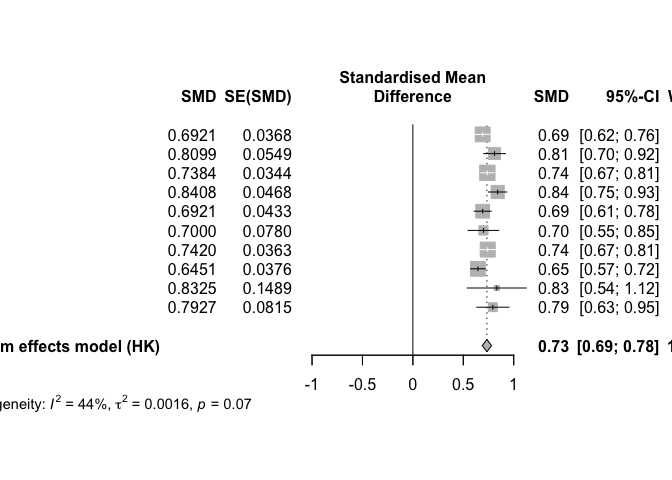
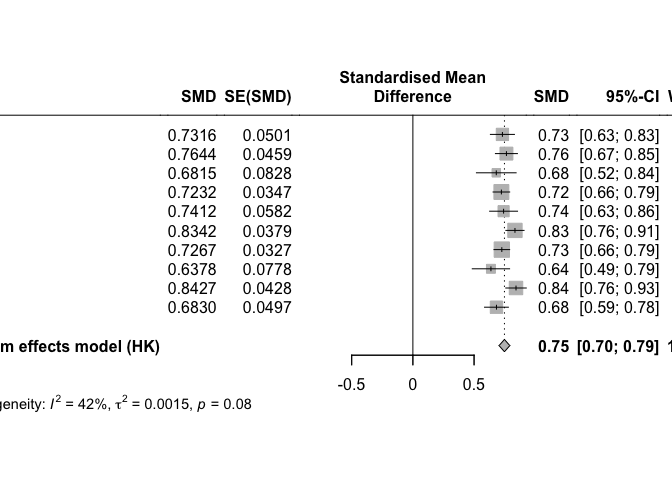
updating readme

diff --git a/README.md b/README.md
@@ -36,8 +36,8 @@ between study heterogenity ($\tau$).
 ``` r
 sim <- sim_meta(min_obs = 20,
          max_obs = 2000,
-         n_studies = 1500,
-         es_true = 0.7,
+         n_studies = 20,
+         es_true = 0.3,
          es = 'SMD',
          fixed = TRUE,
          random = FALSE,
@@ -45,14 +45,14 @@ sim <- sim_meta(min_obs = 20,
 
 head(sim$data_aggr)
 #> # A tibble: 6 × 10
-#>   study hedges_g     se mean_x   mean_y  sd_x  sd_y   n_x   n_y      vi
-#>   <int>    <dbl>  <dbl>  <dbl>    <dbl> <dbl> <dbl> <int> <int>   <dbl>
-#> 1     1    0.817 0.0466  0.758 -0.0605  0.970 1.03   1000  1000 0.00217
-#> 2     2    0.671 0.0641  0.728  0.0571  1.01  0.991   514   514 0.00411
-#> 3     3    0.723 0.0332  0.704 -0.00956 0.984 0.988  1936  1936 0.00110
-#> 4     4    0.680 0.0356  0.655 -0.0177  0.990 0.987  1674  1674 0.00126
-#> 5     5    0.640 0.0354  0.697  0.0644  0.997 0.978  1682  1682 0.00125
-#> 6     6    0.723 0.112   0.772  0.0265  1.05  1.01    171   171 0.0125
+#>   study hedges_g     se mean_x  mean_y  sd_x  sd_y   n_x   n_y      vi
+#>   <int>    <dbl>  <dbl>  <dbl>   <dbl> <dbl> <dbl> <int> <int>   <dbl>
+#> 1     1   0.290  0.0367  0.315  0.0235 1.01  0.998  1497  1497 0.00135
+#> 2     2   0.303  0.0419  0.274 -0.0308 0.999 1.01   1153  1153 0.00175
+#> 3     3   0.316  0.0356  0.282 -0.0336 0.974 1.02   1599  1599 0.00127
+#> 4     4   0.257  0.0326  0.310  0.0531 1.00  0.991  1892  1892 0.00107
+#> 5     5   0.379  0.0765  0.337 -0.0251 0.942 0.968   348   348 0.00585
+#> 6     6   0.0360 0.142   0.210  0.173  0.965 1.06     99    99 0.0202
 ```
 
 # Effect size and standard error
@@ -104,30 +104,30 @@ metaanalysis <- metagen(TE = hedges_g,
 summary(metaanalysis)
 #> Review:     Meta-Analysis fixed-effect
 #> 
-#>       SMD           95%-CI %W(common)
-#> 1  0.8174 [0.7262; 0.9086]        9.8
-#> 2  0.6706 [0.5450; 0.7963]        5.2
-#> 3  0.7232 [0.6582; 0.7882]       19.3
-#> 4  0.6802 [0.6105; 0.7498]       16.8
-#> 5  0.6404 [0.5711; 0.7097]       17.0
-#> 6  0.7227 [0.5040; 0.9415]        1.7
-#> 7  0.7278 [0.6298; 0.8258]        8.5
-#> 8  0.8572 [0.5502; 1.1642]        0.9
-#> 9  0.6227 [0.5411; 0.7042]       12.3
-#> 10 0.7110 [0.6142; 0.8078]        8.7
+#>       SMD            95%-CI %W(common)
+#> 1  0.2898 [ 0.2178; 0.3619]       16.7
+#> 2  0.3034 [ 0.2213; 0.3855]       12.8
+#> 3  0.3162 [ 0.2465; 0.3860]       17.8
+#> 4  0.2572 [ 0.1932; 0.3212]       21.1
+#> 5  0.3790 [ 0.2291; 0.5289]        3.8
+#> 6  0.0360 [-0.2426; 0.3146]        1.1
+#> 7  0.3045 [ 0.2036; 0.4055]        8.5
+#> 8  0.3499 [ 0.2241; 0.4756]        5.5
+#> 9  0.3135 [ 0.1990; 0.4281]        6.6
+#> 10 0.2773 [ 0.1581; 0.3964]        6.1
 #> 
 #> Number of studies: k = 10
 #> 
-#>                        SMD           95%-CI     z p-value
-#> Common effect model 0.6966 [0.6681; 0.7252] 47.82       0
+#>                        SMD           95%-CI     z  p-value
+#> Common effect model 0.2953 [0.2659; 0.3247] 19.68 < 0.0001
 #> 
 #> Quantifying heterogeneity:
-#>  tau^2 = 0.0017 [0.0000; 0.0109]; tau = 0.0413 [0.0000; 0.1046]
-#>  I^2 = 40.1% [0.0%; 71.4%]; H = 1.29 [1.00; 1.87]
+#>  tau^2 < 0.0001 [0.0000; 0.0135]; tau = 0.0004 [0.0000; 0.1163]
+#>  I^2 = 0.0% [0.0%; 62.4%]; H = 1.00 [1.00; 1.63]
 #> 
 #> Test of heterogeneity:
-#>      Q d.f. p-value
-#>  15.01    9  0.0905
+#>     Q d.f. p-value
+#>  7.23    9  0.6129
 #> 
 #> Details on meta-analytical method:
 #> - Inverse variance method
@@ -157,20 +157,32 @@ sim <- sim_meta(min_obs = 20,
 
 head(sim$data_aggr)
 #> # A tibble: 6 × 10
-#>   study hedges_g     se mean_x  mean_y  sd_x  sd_y   n_x   n_y      vi
-#>   <int>    <dbl>  <dbl>  <dbl>   <dbl> <dbl> <dbl> <int> <int>   <dbl>
-#> 1     1    0.692 0.0368  0.766  0.0731 1.02  0.984  1562  1562 0.00136
-#> 2     2    0.810 0.0549  0.713 -0.0802 0.993 0.964   717   717 0.00302
-#> 3     3    0.738 0.0344  0.668 -0.0818 1.03  1.00   1807  1807 0.00118
-#> 4     4    0.841 0.0468  0.775 -0.0366 0.946 0.984   992   992 0.00219
-#> 5     5    0.692 0.0433  0.648 -0.0452 0.973 1.03   1133  1133 0.00187
-#> 6     6    0.700 0.0780  0.750  0.0648 1.00  0.955   349   349 0.00608
+#>   study hedges_g     se mean_x   mean_y  sd_x  sd_y   n_x   n_y      vi
+#>   <int>    <dbl>  <dbl>  <dbl>    <dbl> <dbl> <dbl> <int> <int>   <dbl>
+#> 1     1    0.691 0.0374  0.703  0.00805 1.02  0.993  1518  1518 0.00140
+#> 2     2    0.749 0.0984  0.660 -0.0557  0.942 0.967   221   221 0.00968
+#> 3     3    0.790 0.0523  0.710 -0.0910  1.01  1.01    788   788 0.00274
+#> 4     4    0.534 0.0325  0.667  0.137   0.978 1.01   1963  1963 0.00106
+#> 5     5    0.679 0.0404  0.658 -0.0215  1.02  0.976  1299  1299 0.00163
+#> 6     6    0.733 0.0355  0.683 -0.0369  0.972 0.994  1697  1697 0.00126
 ```
 
 Run Random-Effects Meta-Analysis
 
 ``` r
 require(meta)
+require(metafor)
+#> Loading required package: metafor
+#> Loading required package: Matrix
+#> 
+#> Attaching package: 'Matrix'
+#> The following objects are masked from 'package:tidyr':
+#> 
+#>     expand, pack, unpack
+#> Loading required package: numDeriv
+#> 
+#> Loading the 'metafor' package (version 4.4-0). For an
+#> introduction to the package please type: help(metafor)
 
 metaanalysis <- metagen(TE = hedges_g,
                  seTE = se,
@@ -187,29 +199,29 @@ summary(metaanalysis)
 #> Review:     Meta-Analysis fixed-effect
 #> 
 #>       SMD           95%-CI %W(random)
-#> 1  0.6921 [0.6199; 0.7643]       13.9
-#> 2  0.8099 [0.7023; 0.9176]        8.9
-#> 3  0.7384 [0.6710; 0.8058]       14.8
-#> 4  0.8408 [0.7490; 0.9326]       10.8
-#> 5  0.6921 [0.6073; 0.7769]       11.8
-#> 6  0.7000 [0.5471; 0.8528]        5.3
-#> 7  0.7420 [0.6708; 0.8132]       14.1
-#> 8  0.6451 [0.5714; 0.7188]       13.7
-#> 9  0.8325 [0.5407; 1.1244]        1.7
-#> 10 0.7927 [0.6330; 0.9524]        5.0
+#> 1  0.6907 [0.6175; 0.7640]       11.6
+#> 2  0.7490 [0.5561; 0.9419]        5.8
+#> 3  0.7898 [0.6873; 0.8923]       10.0
+#> 4  0.5339 [0.4703; 0.5976]       12.1
+#> 5  0.6789 [0.5998; 0.7580]       11.3
+#> 6  0.7327 [0.6631; 0.8022]       11.8
+#> 7  0.8663 [0.7527; 0.9800]        9.4
+#> 8  0.6534 [0.5620; 0.7448]       10.6
+#> 9  0.8236 [0.7325; 0.9147]       10.7
+#> 10 0.7161 [0.5427; 0.8894]        6.6
 #> 
 #> Number of studies: k = 10
 #> 
 #>                              SMD           95%-CI     t  p-value
-#> Random effects model (HK) 0.7339 [0.6881; 0.7797] 36.25 < 0.0001
+#> Random effects model (HK) 0.7170 [0.6468; 0.7872] 23.10 < 0.0001
 #> 
 #> Quantifying heterogeneity:
-#>  tau^2 = 0.0016 [0.0000; 0.0111]; tau = 0.0396 [0.0000; 0.1053]
-#>  I^2 = 43.8% [0.0%; 73.1%]; H = 1.33 [1.00; 1.93]
+#>  tau^2 = 0.0069 [0.0023; 0.0274]; tau = 0.0830 [0.0482; 0.1656]
+#>  I^2 = 80.7% [65.5%; 89.2%]; H = 2.28 [1.70; 3.05]
 #> 
 #> Test of heterogeneity:
-#>      Q d.f. p-value
-#>  16.02    9  0.0665
+#>      Q d.f.  p-value
+#>  46.71    9 < 0.0001
 #> 
 #> Details on meta-analytical method:
 #> - Inverse variance method
@@ -217,7 +229,7 @@ summary(metaanalysis)
 #> - Q-Profile method for confidence interval of tau^2 and tau
 #> - Hartung-Knapp adjustment for random effects model (df = 9)
 
-forest(metaanalysis)
+metafor::forest(metaanalysis, header = TRUE)
 ```
 
 <img src="man/figures/README-unnamed-chunk-7-1.png" width="100%" />
